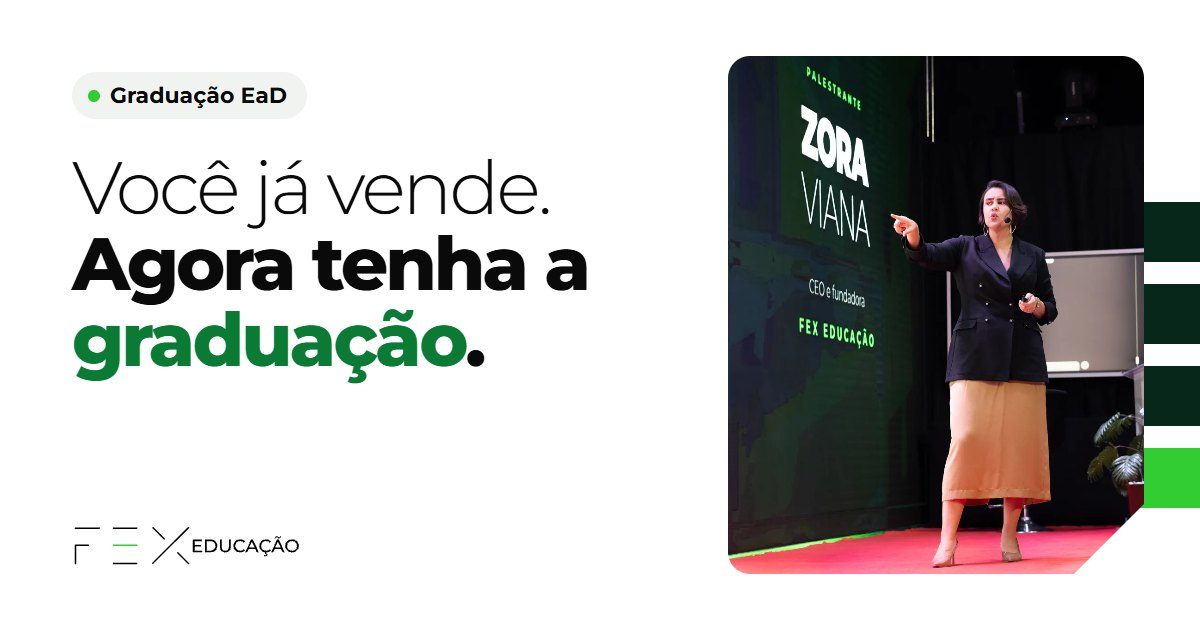
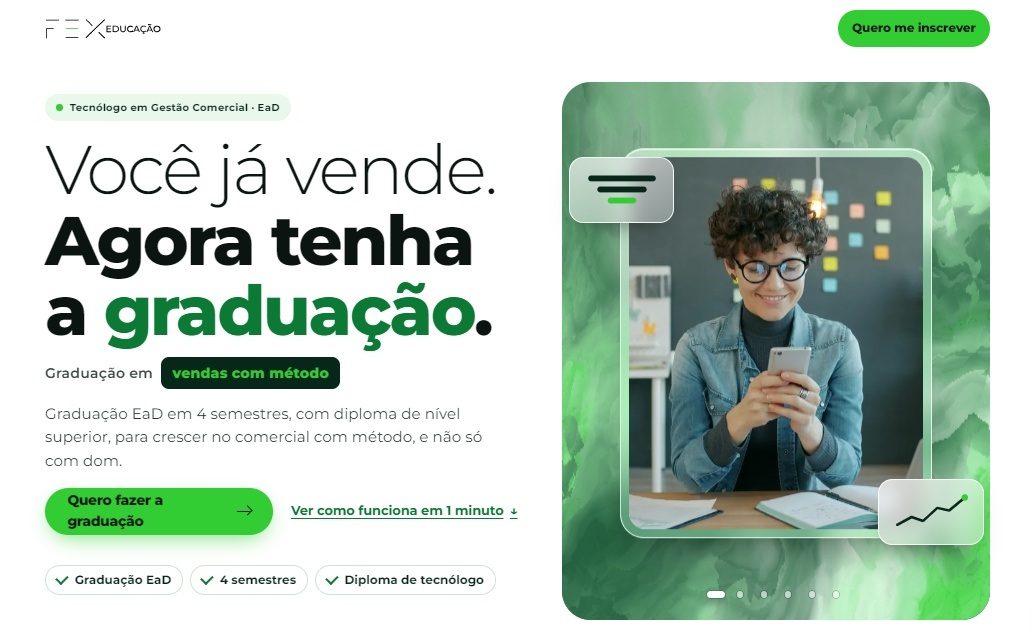
Atualiza imagem de compartilhamento Open Graph

diff --git a/index.html b/index.html
@@ -8,7 +8,9 @@
 <meta property="og:title" content="Você já vende. Agora tenha a graduação.">
 <meta property="og:description" content="Tecnólogo em Gestão Comercial EaD em 4 semestres, com diploma de graduação. Vestibular 2027 aberto.">
 <meta property="og:type" content="website">
-<meta property="og:image" content="img/compartilhar.jpg">
+<meta property="og:image" content="https://graduacaogc.vercel.app/img/compartilhar.jpg?v=20261127">
+<meta property="og:image:width" content="1032">
+<meta property="og:image:height" content="637">
 <meta name="theme-color" content="#ffffff">
 <link rel="preload" href="fonts/montserrat-normal-latin.woff2" as="font" type="font/woff2" crossorigin>
 <link rel="preload" as="image" href="img/f2-celular-escritorio-480.webp" imagesrcset="img/f2-celular-escritorio-480.webp 480w, img/f2-celular-escritorio.webp 900w" imagesizes="(min-width:960px) 400px, 76vw" fetchpriority="high">
